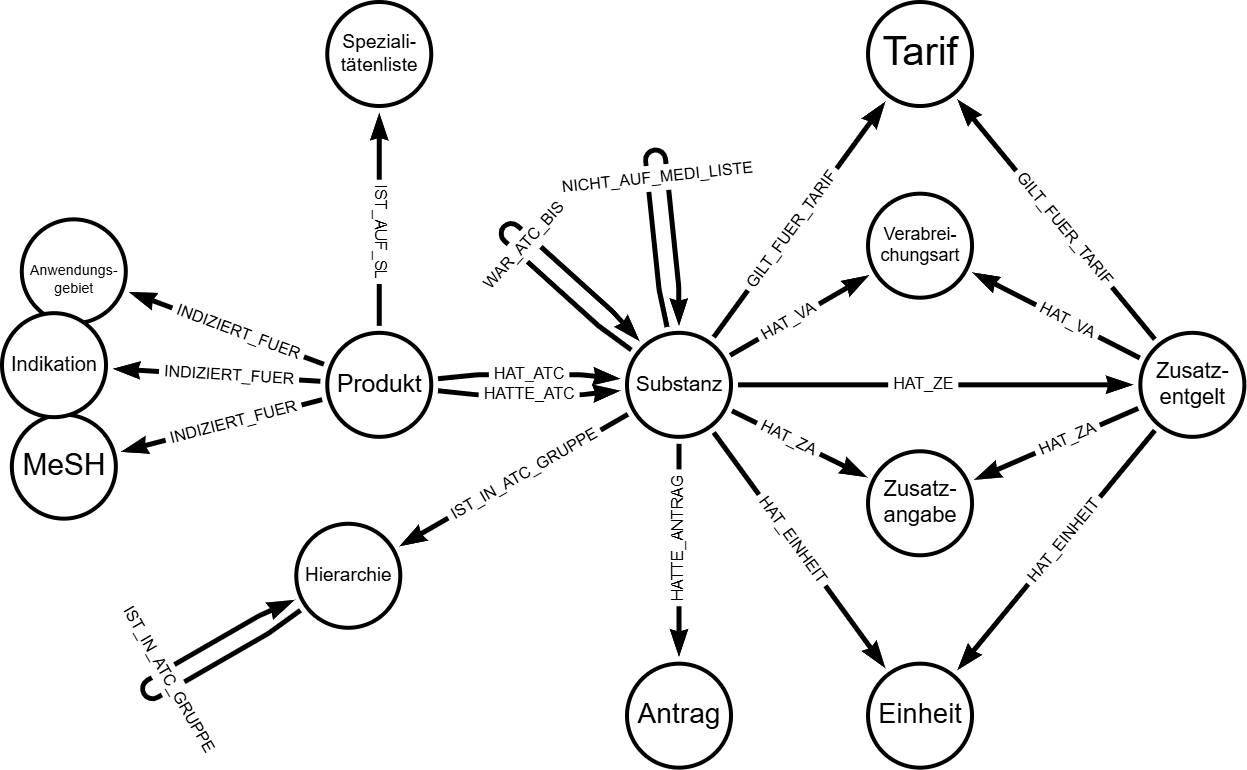
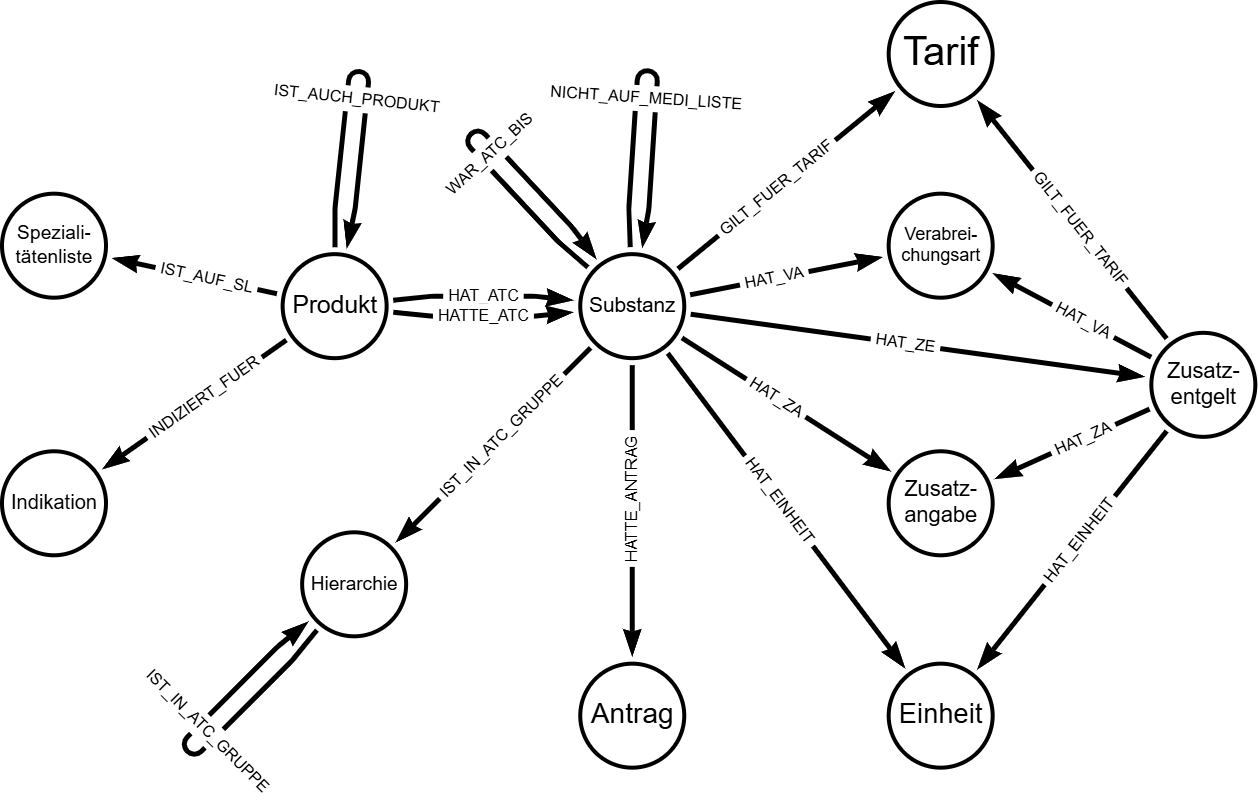
Renamed "Produkt" to "Präparat" (Version 1.1)

diff --git a/doc/Benutzerhandbuch.MD b/doc/Benutzerhandbuch.MD
@@ -16,7 +16,7 @@ Folgende Datenquellen wurden verwendet:
 
 ## Datenmodell
 
-Das Datenmodell besteht aus 13 Labels (Knoten-Typen) und 14 unterschiedlichen Relationen.
+Das Datenmodell besteht aus 11 Labels (Knoten-Typen) und 14 unterschiedlichen Relationen.
 
 Die Knoten handelt es sich um:
 
@@ -25,9 +25,9 @@ Die Knoten handelt es sich um:
 - Zusatzentgelte: stationäre Zusatzentgelte für die Tarife SwissDRG, TARPSY und ST Reha
 - Antrag: abgelehnte oder nicht rechenbare Anträge gemäss SwissDRG Antragsverfahren für Medikamente oder Zusatzentgelte
 - Hierarchie: basiert auf den ATC-Index mit den Detailierungslevels 1, 3, 4 und 5 sowie den Angabe der Definded Daily Dose (DDD) auf Level 7, d.h. für den Knoten Substanz
-- Produkt: basiert auf den Produktnamen der EMA oder Refdata ohne Unterteilung nach Packungen
+- Präparat: basiert auf den Produktnamen (Präparate) der EMA oder Refdata ohne Unterteilung nach Packungen
 - Spezialitätenliste: alle Packungen inkl. Preisangaben der Spezialitätenliste (SL) des Bundesamt für Gesundheit (BAG)
-- Indikation, MeSH, Anwendungsgebiet: für welche Erkrankungen sind die Produkte indiziert gemäss EMA oder Refdata/SAI? Knoten basieren auf den Indikationstexten, die semikolongetrennt in mehrere Indikationen aufgeteilt wurden (aber kommagetrennte Indikationen sind nicht separat, sondern als ein gemeinsamer Knoten vorhanden); Indikation ist die Vereinigungsmenge von MeSH und Anwendungsgebiet
+- Indikation: für welche Erkrankungen sind die Präparate indiziert gemäss EMA (MeSH Term) oder Refdata/SAI (Anwendungsgebiet)? Knoten basieren auf den Indikationstexten, die semikolongetrennt in mehrere Indikationen aufgeteilt wurden (aber kommagetrennte Indikationen sind nicht separat, sondern als ein gemeinsamer Knoten vorhanden)
 
 Zwischen den Knoten wurden diverse Relationen erstellt (teilweise Mehrfach-Relationen)
 
@@ -40,17 +40,17 @@ Zwischen den Knoten wurden diverse Relationen erstellt (teilweise Mehrfach-Relat
 - WAR_ATC_BIS: Relation einer Substanz zu sich selbst, falls der ATC-Code in der Vergangenheit geändert hat inkl. Relationenproperties
 - NICHT_AUF_MEDI_LISTE: Relation einer Substanz zu sich selbst, falls es sich um einen ATC-Code handelt, der sich aktuell nicht auf der Liste der hochteuren Medikamente befindet
 - IST_IN_ATC_GRUPPE: Relation einer Substanz zum ATC-Hierarchie-Level 5 oder vom ATC-Hierarchie-Level jeweils ein Hierarchie-Level hinauf
-- HAT_ATC: Relation eines Produktes zu einer Substanz, wobei ATC-Codes der EMA und/oder von Refdata/SAI und/oder von der SL zu dieser Relation beitragen; die Quelle der Relation ist als Relationenpropertie vorhanden
-- HATTE_ATC: Relation eines Produktes zu einer Substanz, wobei der ATC-Code zu einem früheren ATC-Code gehört, der in der Relation `WAR_ATC_BIS` hinterlegt ist
-- INDIZIERT_FUER: Relation zwischen den Produkten und den Indikationsknoten (dreifache Relation)
-- IST_AUF_SL: Relation eines Produktes zu einer konkreten Packung, falls sich die Packung auf der Spezialitätenliste befindet
-- IST_AUCH_PRODUKT: Relation eines Produktes zu sich selbst, weil Produkte mit unterschiedlichen Indikationen die gleiche Bezeichnung haben können; diese Relation stellt sicher, dass keine Daten verloren gehen
+- HAT_ATC: Relation eines Präparates zu einer Substanz, wobei ATC-Codes der EMA und/oder von Refdata/SAI und/oder von der SL zu dieser Relation beitragen; die Quelle der Relation ist als Relationenpropertie vorhanden
+- HATTE_ATC: Relation eines Präparates zu einer Substanz, wobei der ATC-Code zu einem früheren ATC-Code gehört, der in der Relation `WAR_ATC_BIS` hinterlegt ist
+- INDIZIERT_FUER: Relation zwischen den Präparaten und den Indikationsknoten
+- IST_AUF_SL: Relation eines Präparates zu einer konkreten Packung, falls sich die Packung auf der Spezialitätenliste befindet
+- IST_AUCH_PRÄPARAT: Relation eines Präparates zu sich selbst, weil Präparate mit unterschiedlichen Indikationen die gleiche Bezeichnung haben können; diese Relation stellt sicher, dass keine Daten verloren gehen
 
 Das Datenschema kann wie folgt visualisiert werden:
 
 ![Datenschema](pictures/schema.png "Datenschema")
 
-Die Labels haben folgende Properties:
+In der ersten Version des Datenmodells hiess das Label `Präparat` noch `Produkt`. Die Labels haben folgende Properties:
 
 | nodeLabels     | propertyName                | propertyTypes  |
 |---------------|---------------------------|---------------|
@@ -91,24 +91,24 @@ Die Labels haben folgende Properties:
 | Zusatzentgelt      | Verabreichungsart        | String        |
 | Zusatzentgelt      | ZE-Nr                    | String        |
 | Zusatzentgelt      | url                      | String        |
-| Produkt            | Name                     | String        |
-| Produkt            | Mesh                     | String        |
-| Produkt            | Indikation               | String        |
-| Produkt            | Zulassungsinhaberin      | String        |
-| Produkt            | Orphan Status            | String        |
-| Produkt            | Generikum                | String        |
-| Produkt            | Biosimilar               | String        |
-| Produkt            | url                      | String        |
-| Produkt            | IT                       | String        |
-| Produkt            | ATC-EMA                  | String        |
-| Produkt            | Anwendungsgebiet         | String        |
-| Produkt            | Erstzulassung            | String        |
-| Produkt            | Zulassungsnummer         | String        |
-| Produkt            | ATC-SAI                  | String        |
-| Produkt            | Aktive Substanz EMA      | String        |
-| Produkt            | Praeparatename           | String        |
-| Indikation, MeSH  | Name                         | String        |
-| Indikation, Anwendungsgebiet  | Name              | String        |
+| Präparat           | Name                     | String        |
+| Präparat           | Mesh                     | String        |
+| Präparat           | Indikation               | String        |
+| Präparat           | Zulassungsinhaberin      | String        |
+| Präparat           | Orphan Status            | String        |
+| Präparat           | Generikum                | String        |
+| Präparat           | Biosimilar               | String        |
+| Präparat           | url                      | String        |
+| Präparat           | IT                       | String        |
+| Präparat           | ATC-EMA                  | String        |
+| Präparat           | Anwendungsgebiet         | String        |
+| Präparat           | Erstzulassung            | String        |
+| Präparat           | Zulassungsnummer         | String        |
+| Präparat           | ATC-SAI                  | String        |
+| Präparat           | Aktive Substanz EMA      | String        |
+| Präparat           | Praeparatename           | String        |
+| Indikation         | Name                     | String        |
+| Indikation         | Name                     | String        |
 | Hierarchie         | Name                     | String        |
 | Hierarchie         | url                      | String        |
 | Hierarchie         | Bezeichnung EN           | String        |
@@ -120,6 +120,8 @@ Die Labels haben folgende Properties:
 | Spezialitätenliste | PublikumsPreis           | Double        |
 | Spezialitätenliste | Letzte Preis Änderung    | Date          |
 | Spezialitätenliste | ATC-SL                   | String        |
+| Spezialitätenliste | Einfügedatum             | Date        |
+| Spezialitätenliste | Therapie-Gruppe          | String        |
 | Antrag             | Tarifsystem              | String        |
 | Antrag             | Partner                  | String        |
 | Antrag             | Antragsjahr              | Long          |
@@ -137,7 +139,7 @@ Bei fünf Relationen gibt es Properties:
 | INDIZIERT_FUER | Quelle                        | String        |
 | IST_AUF_SL     | null                          | null          |
 | GILT_FUER_TARIF| null                          | null          |
-| IST_AUCH_PRODUKT | null                        | null          |
+| IST_AUCH_PRÄPARAT | null                        | null          |
 | IST_IN_ATC_GRUPPE | null                      | null          |
 | WAR_ATC_BIS    | Gültig bis und mit Jahr       | Long          |
 | WAR_ATC_BIS    | Früherer ATC                  | String        |
@@ -171,7 +173,7 @@ Das Datenmodell wurde mit Hilfe von cypher-Code in Neo4j implementiert. Anstatt 
 Die vermutlich einfachste Art ist die Suche nach Freitext im Suchfenster oben links. Besonders geeignet ist die Suche nach:
 
 - ATC-Codes
-- Produkt-Bezeichnungen
+- Präparat-Bezeichnungen
 - Indikationen
 
 Durch Auswahl der Suchtreffer mit Tab und mit Bestätigung der Suche mit Enter oder dem Dreieck-Symbol am rechten Rand der Suchleiste, werden die Knoten in der Scene dargestellt.
@@ -234,7 +236,7 @@ Innerhalb einer Scene können ein oder mehrere Knoten und dessen Graph mit Hilfe
 
 ![Actions 01](pictures/action01.png "Auswahlmenü bietet weitere Funktionen zur Analyse eines oder mehrere Knoten")
 
-Bei Scene Actions handelt es sich um vorbereitete Abfragen, die einen oder mehrere Knoten erweitern. Die Scene Actions werden nur dann ausgeführt, wenn ein Knoten und die Scene Action zueinander passen. Im Beispiel unten kann die WHO ATC-Hierarchie eingeblendet werden, da es sich beim ausgewählten Knoten um eine Substanz handelt. Die Produkt-Informationen werden nicht angezeigt, weil sich die zweite Scene Action nur auf Prdoukt-Knoten bezieht.
+Bei Scene Actions handelt es sich um vorbereitete Abfragen, die einen oder mehrere Knoten erweitern. Die Scene Actions werden nur dann ausgeführt, wenn ein Knoten und die Scene Action zueinander passen. Im Beispiel unten kann die WHO ATC-Hierarchie eingeblendet werden, da es sich beim ausgewählten Knoten um eine Substanz handelt. Die Präparat-Informationen werden nicht angezeigt, weil sich die zweite Scene Action nur auf Präparat-Knoten bezieht.
 
 ![Actions 02](pictures/action02.png "Auswahlmenü einer Scene Action, falls diese vorhanden sind")
 
